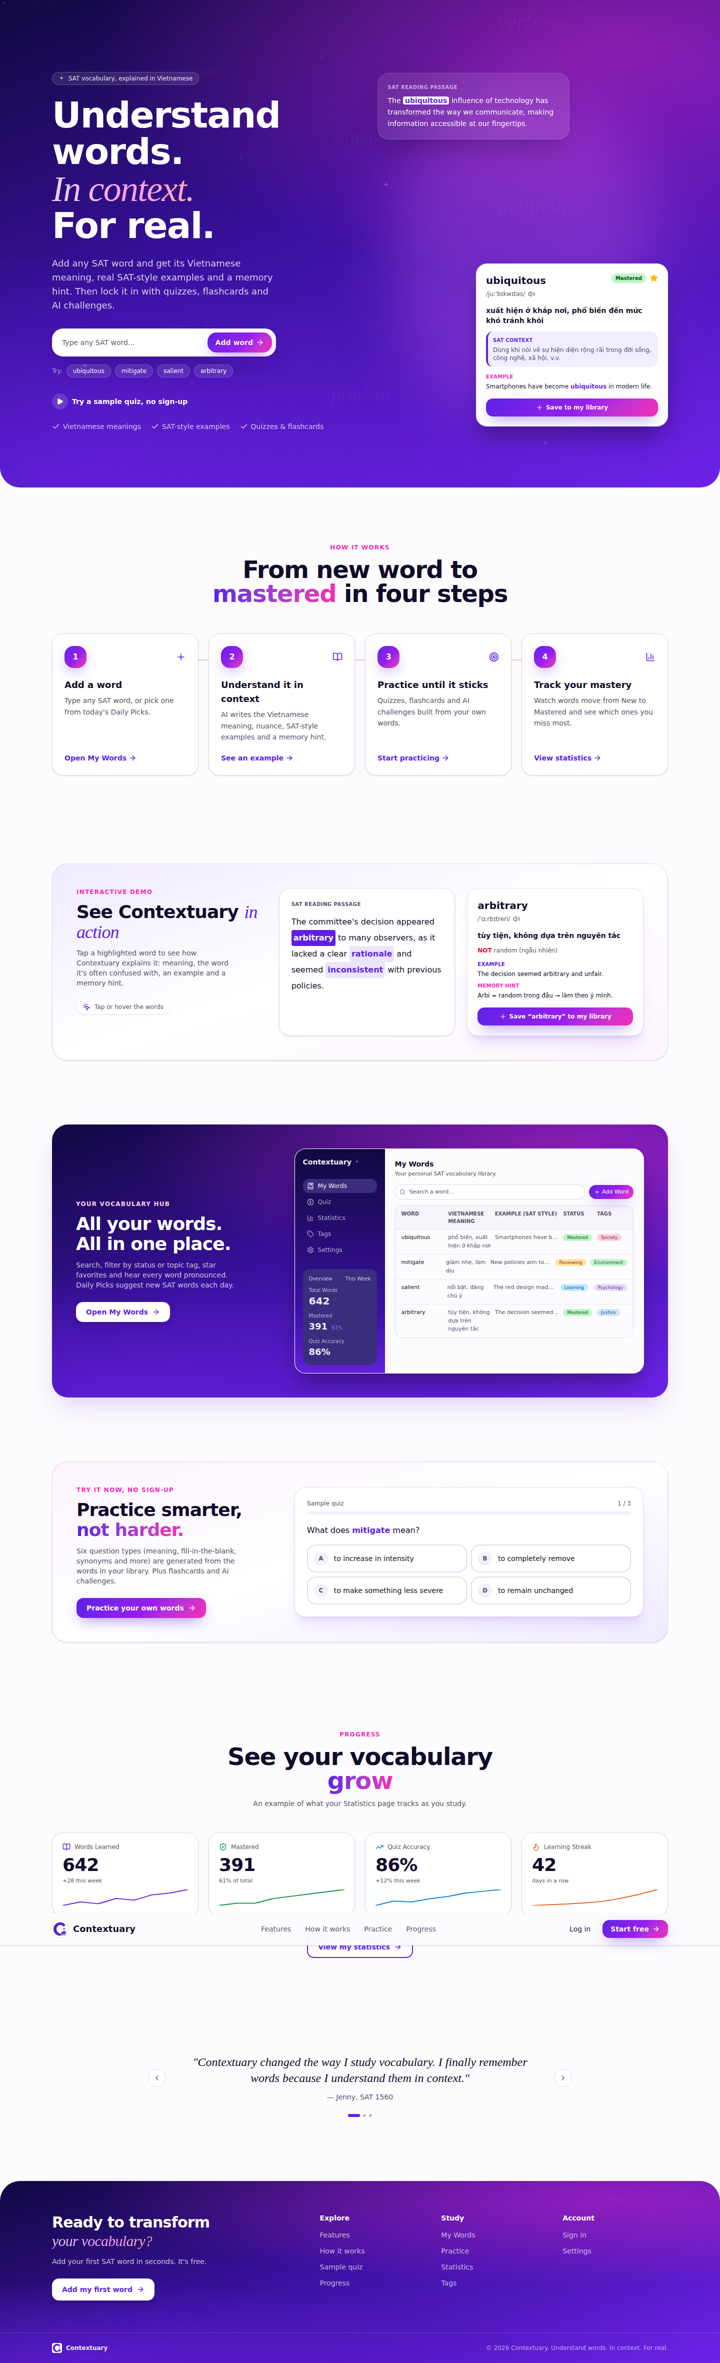
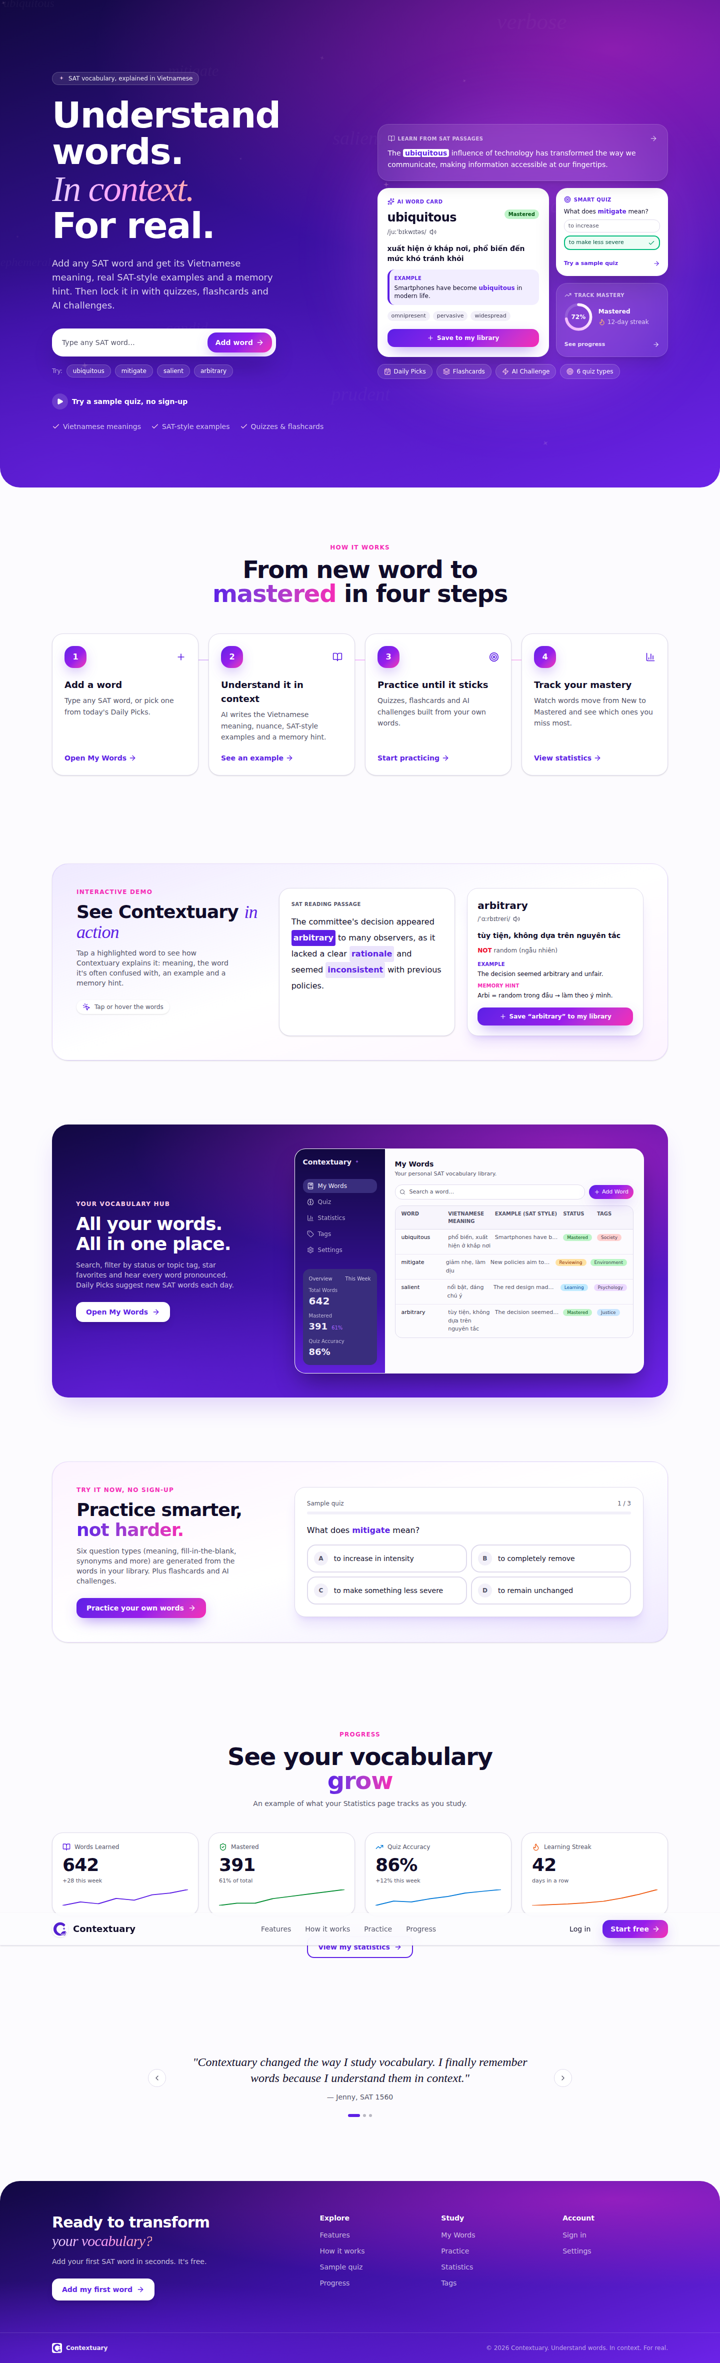
Hero: replace floating cards with a feature bento grid
The two floating cards left large empty gaps on the right. A compact bento
grid now fills the column and previews real features, each opening its
section or page: SAT passage (demo), AI word card (save / pronounce),
smart quiz (sample quiz), mastery ring + streak (progress), and pills for
Daily Picks, Flashcards, AI Challenge and quiz types. On phones the quiz and
progress tiles are hidden to keep the hero short.

Claude-Session: https://claude.ai/code/session_01Eix6EXgqPSF8fzEFRrfGqA

Changed region(s): [[0.5194, 0.0309, 0.9472, 0.1854]]

diff --git a/github-pages/src/components/landing/hero-showcase.tsx b/github-pages/src/components/landing/hero-showcase.tsx
@@ -1,0 +1,205 @@
+import { Link } from "@tanstack/react-router";
+import { motion } from "framer-motion";
+import {
+  ArrowRight,
+  BookOpen,
+  CalendarCheck,
+  Check,
+  Flame,
+  Layers,
+  Plus,
+  Sparkles,
+  Target,
+  TrendingUp,
+  Volume2,
+  Zap,
+} from "lucide-react";
+import type { ReactNode } from "react";
+import { speakText } from "@/lib/speech";
+import { cn } from "@/lib/utils";
+
+// Hero right column: a bento grid where every tile previews a real feature and opens it.
+
+const reveal = (i: number) => ({
+  initial: { opacity: 0, y: 16 },
+  animate: { opacity: 1, y: 0 },
+  transition: { duration: 0.5, ease: "easeOut" as const, delay: 0.15 + i * 0.08 },
+});
+
+function Eyebrow({ icon, children, light }: { icon: ReactNode; children: ReactNode; light?: boolean }) {
+  return (
+    <div
+      className={cn(
+        "flex items-center gap-1.5 text-[10px] font-bold uppercase tracking-wider",
+        light ? "text-white/70" : "text-primary",
+      )}
+    >
+      {icon}
+      {children}
+    </div>
+  );
+}
+
+const glass =
+  "rounded-2xl border border-white/15 bg-white/10 text-white shadow-xl backdrop-blur-md transition-colors hover:bg-white/15";
+const solid = "rounded-2xl bg-card text-foreground shadow-2xl shadow-black/30";
+
+const PILLS = [
+  { icon: CalendarCheck, label: "Daily Picks", to: "/words" },
+  { icon: Layers, label: "Flashcards", to: "/practice" },
+  { icon: Zap, label: "AI Challenge", to: "/practice" },
+  { icon: Target, label: "6 quiz types", to: "/", hash: "practice" },
+];
+
+export function HeroShowcase({ onAddWord }: { onAddWord: (word: string) => void }) {
+  const ring = 2 * Math.PI * 22;
+  return (
+    <div className="relative self-center">
+      <div className="absolute -inset-6 rounded-full bg-fuchsia-400/25 blur-3xl" aria-hidden />
+
+      <div className="relative grid grid-cols-1 gap-3.5 sm:grid-cols-5">
+        {/* 1. Read in context */}
+        <motion.div {...reveal(0)} className="sm:col-span-5">
+          <Link to="/" hash="features" className={cn(glass, "group block p-5")}>
+            <div className="flex items-center justify-between">
+              <Eyebrow light icon={<BookOpen className="h-3.5 w-3.5" />}>
+                Learn from SAT passages
+              </Eyebrow>
+              <ArrowRight className="h-4 w-4 text-white/60 transition-transform group-hover:translate-x-1" />
+            </div>
+            <p className="mt-2.5 text-sm leading-relaxed">
+              The{" "}
+              <span className="rounded bg-white px-1 font-semibold text-primary">ubiquitous</span>{" "}
+              influence of technology has transformed the way we communicate, making information
+              accessible at our fingertips.
+            </p>
+          </Link>
+        </motion.div>
+
+        {/* 2. AI word card */}
+        <motion.div {...reveal(1)} className={cn(solid, "p-5 sm:col-span-3 sm:row-span-2")}>
+          <Eyebrow icon={<Sparkles className="h-3.5 w-3.5" />}>AI word card</Eyebrow>
+          <div className="mt-2 flex items-start justify-between gap-2">
+            <div>
+              <div className="text-2xl font-bold tracking-tight">ubiquitous</div>
+              <button
+                type="button"
+                onClick={() => speakText("ubiquitous")}
+                className="mt-0.5 inline-flex items-center gap-1.5 rounded-md text-xs text-muted-foreground transition-colors hover:text-primary"
+                aria-label="Hear how ubiquitous is pronounced"
+              >
+                /juːˈbɪkwɪtəs/ <Volume2 className="h-3.5 w-3.5" />
+              </button>
+            </div>
+            <span className="rounded-full bg-status-mastered px-2 py-0.5 text-[10px] font-semibold text-status-mastered-fg">
+              Mastered
+            </span>
+          </div>
+          <p className="mt-3 text-sm font-semibold">xuất hiện ở khắp nơi, phổ biến đến mức khó tránh khỏi</p>
+          <div className="mt-3 rounded-lg border-l-4 border-primary bg-accent/60 p-2.5">
+            <div className="text-[10px] font-bold uppercase tracking-wide text-primary">Example</div>
+            <p className="mt-1 text-xs">
+              Smartphones have become <span className="font-semibold text-primary">ubiquitous</span> in
+              modern life.
+            </p>
+          </div>
+          <div className="mt-3 flex flex-wrap gap-1.5">
+            {["omnipresent", "pervasive", "widespread"].map((s) => (
+              <span key={s} className="rounded-full bg-muted px-2 py-0.5 text-[11px] font-medium text-foreground/80">
+                {s}
+              </span>
+            ))}
+          </div>
+          <button
+            type="button"
+            onClick={() => onAddWord("ubiquitous")}
+            className="btn-ombre mt-4 inline-flex w-full items-center justify-center gap-1.5 rounded-lg py-2.5 text-xs font-semibold transition-all"
+          >
+            <Plus className="h-3.5 w-3.5" /> Save to my library
+          </button>
+        </motion.div>
+
+        {/* 3. Quiz */}
+        <motion.div {...reveal(2)} className="hidden sm:col-span-2 sm:block">
+          <Link to="/" hash="practice" className={cn(solid, "group flex h-full flex-col p-4")}>
+            <Eyebrow icon={<Target className="h-3.5 w-3.5" />}>Smart quiz</Eyebrow>
+            <p className="mt-2 text-xs font-medium">
+              What does <span className="font-semibold text-primary">mitigate</span> mean?
+            </p>
+            <div className="mt-2 space-y-1.5">
+              <div className="rounded-md border border-border px-2 py-1 text-[11px] text-muted-foreground">
+                to increase
+              </div>
+              <div className="flex items-center justify-between rounded-md border-2 border-emerald-500 bg-emerald-50 px-2 py-1 text-[11px] font-medium text-emerald-900">
+                to make less severe <Check className="h-3.5 w-3.5 text-emerald-600" />
+              </div>
+            </div>
+            <div className="mt-auto flex items-center justify-between pt-2 text-[11px] font-semibold text-primary">
+              Try a sample quiz
+              <ArrowRight className="h-3.5 w-3.5 transition-transform group-hover:translate-x-1" />
+            </div>
+          </Link>
+        </motion.div>
+
+        {/* 4. Progress */}
+        <motion.div {...reveal(3)} className="hidden sm:col-span-2 sm:block">
+          <Link to="/" hash="progress" className={cn(glass, "group flex h-full flex-col p-4")}>
+            <Eyebrow light icon={<TrendingUp className="h-3.5 w-3.5" />}>
+              Track mastery
+            </Eyebrow>
+            <div className="mt-2 flex items-center gap-3">
+              <div className="relative h-14 w-14 shrink-0">
+                <svg viewBox="0 0 50 50" className="h-full w-full -rotate-90">
+                  <circle cx="25" cy="25" r="22" strokeWidth="5" className="stroke-white/15" fill="none" />
+                  <circle
+                    cx="25"
+                    cy="25"
+                    r="22"
+                    strokeWidth="5"
+                    fill="none"
+                    stroke="url(#hero-ring)"
+                    strokeLinecap="round"
+                    strokeDasharray={ring}
+                    strokeDashoffset={ring * 0.28}
+                  />
+                  <defs>
+                    <linearGradient id="hero-ring" x1="0" y1="0" x2="1" y2="1">
+                      <stop offset="0" stopColor="#f0abfc" />
+                      <stop offset="1" stopColor="#ffffff" />
+                    </linearGradient>
+                  </defs>
+                </svg>
+                <span className="absolute inset-0 flex items-center justify-center text-xs font-bold">72%</span>
+              </div>
+              <div className="text-xs leading-snug">
+                <div className="font-semibold">Mastered</div>
+                <div className="mt-1 flex items-center gap-1 text-white/75">
+                  <Flame className="h-3.5 w-3.5 text-orange-300" /> 12-day streak
+                </div>
+              </div>
+            </div>
+            <div className="mt-auto flex items-center justify-between pt-2 text-[11px] font-semibold text-white/85">
+              See progress
+              <ArrowRight className="h-3.5 w-3.5 transition-transform group-hover:translate-x-1" />
+            </div>
+          </Link>
+        </motion.div>
+
+        {/* 5. More features */}
+        <motion.div {...reveal(4)} className="flex flex-wrap gap-2 sm:col-span-5">
+          {PILLS.map((p) => (
+            <Link
+              key={p.label}
+              to={p.to}
+              hash={p.hash}
+              className="inline-flex items-center gap-1.5 rounded-full border border-white/20 bg-white/10 px-3 py-1.5 text-xs font-medium text-white backdrop-blur transition-colors hover:bg-white/20"
+            >
+              <p.icon className="h-3.5 w-3.5 text-pink-200" />
+              {p.label}
+            </Link>
+          ))}
+        </motion.div>
+      </div>
+    </div>
+  );
+}

diff --git a/github-pages/src/components/landing/hero.tsx b/github-pages/src/components/landing/hero.tsx
@@ -1,9 +1,9 @@
 import { Link, useNavigate } from "@tanstack/react-router";
 import { motion } from "framer-motion";
 import { useState } from "react";
-import { ArrowRight, Check, Play, Plus, Star, Volume2 } from "lucide-react";
+import { ArrowRight, Check, Play } from "lucide-react";
 import { DriftingBackdrop, Sparkle } from "./decorations";
-import { speakText } from "@/lib/speech";
+import { HeroShowcase } from "./hero-showcase";
 
 const CHIPS = ["ubiquitous", "mitigate", "salient", "arbitrary"];
 const POINTS = ["Vietnamese meanings", "SAT-style examples", "Quizzes & flashcards"];
@@ -103,76 +103,7 @@ export function Hero() {
           </ul>
         </motion.div>
 
-        <div className="relative flex min-h-[460px] items-center justify-center">
-          <div className="absolute inset-8 rounded-full bg-fuchsia-400/25 blur-3xl" aria-hidden />
-
-          <motion.div
-            animate={{ y: [0, -8, 0] }}
-            transition={{ duration: 6, repeat: Infinity, ease: "easeInOut" }}
-            className="absolute left-0 top-2 w-[78%] max-w-sm rounded-2xl border border-white/15 bg-white/10 p-5 text-white shadow-2xl backdrop-blur-md"
-          >
-            <div className="text-[10px] font-semibold uppercase tracking-wider text-white/60">
-              SAT reading passage
-            </div>
-            <p className="mt-2 text-sm leading-relaxed">
-              The{" "}
-              <span className="rounded bg-white px-1 font-semibold text-primary">ubiquitous</span>{" "}
-              influence of technology has transformed the way we communicate, making information
-              accessible at our fingertips.
-            </p>
-          </motion.div>
-
-          <motion.div
-            animate={{ y: [0, -10, 0] }}
-            transition={{ duration: 7, repeat: Infinity, ease: "easeInOut", delay: 0.5 }}
-            className="absolute bottom-0 right-0 w-[84%] max-w-sm rounded-2xl bg-card p-5 text-foreground shadow-2xl shadow-black/40"
-          >
-            <div className="flex items-start justify-between">
-              <div>
-                <div className="text-xl font-bold">ubiquitous</div>
-                <button
-                  type="button"
-                  onClick={() => speakText("ubiquitous")}
-                  className="mt-0.5 inline-flex items-center gap-1.5 rounded-md text-xs text-muted-foreground transition-colors hover:text-primary"
-                  aria-label="Hear how ubiquitous is pronounced"
-                >
-                  /juːˈbɪkwɪtəs/ <Volume2 className="h-3.5 w-3.5" />
-                </button>
-              </div>
-              <div className="flex items-center gap-2">
-                <span className="rounded-full bg-status-mastered px-2 py-0.5 text-[10px] font-semibold text-status-mastered-fg">
-                  Mastered
-                </span>
-                <Star className="h-4 w-4 fill-amber-400 text-amber-400" />
-              </div>
-            </div>
-            <p className="mt-3 text-sm font-semibold">
-              xuất hiện ở khắp nơi, phổ biến đến mức khó tránh khỏi
-            </p>
-            <div className="mt-3 rounded-lg border-l-4 border-primary bg-accent/60 p-2.5">
-              <div className="text-[10px] font-bold uppercase tracking-wide text-primary">
-                SAT context
-              </div>
-              <p className="mt-1 text-xs text-foreground/75">
-                Dùng khi nói về sự hiện diện rộng rãi trong đời sống, công nghệ, xã hội, v.v.
-              </p>
-            </div>
-            <div className="mt-3">
-              <div className="text-[10px] font-bold uppercase tracking-wide text-spark">Example</div>
-              <p className="mt-1 text-xs">
-                Smartphones have become{" "}
-                <span className="font-semibold text-primary">ubiquitous</span> in modern life.
-              </p>
-            </div>
-            <button
-              type="button"
-              onClick={() => addWord("ubiquitous")}
-              className="btn-ombre mt-4 inline-flex w-full items-center justify-center gap-1.5 rounded-lg py-2.5 text-xs font-semibold transition-all"
-            >
-              <Plus className="h-3.5 w-3.5" /> Save to my library
-            </button>
-          </motion.div>
-        </div>
+        <HeroShowcase onAddWord={addWord} />
       </div>
     </section>
   );
